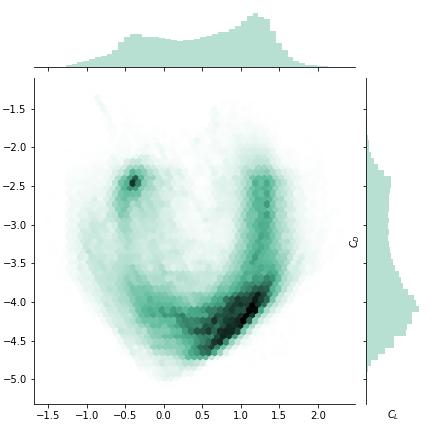
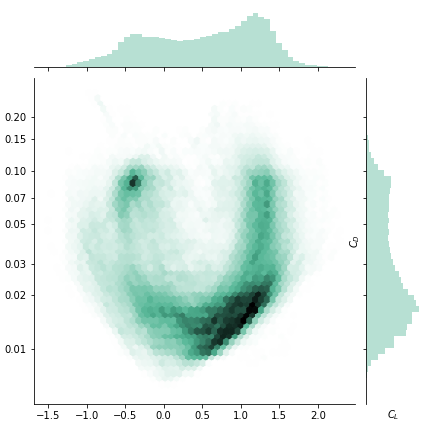
32 points, half-cosine and closed works quite nice!

diff --git a/validation.py b/validation.py
@@ -1,31 +1,47 @@
+"""
+Script to run various predictions through the trained model and validate against
+XFoil simulations.
+"""
+
+################################################################################
+# %% IMPORT PACKAGES
+################################################################################
+
 import numpy as np
-
 import matplotlib.pyplot as mp
-
 from tensorflow.keras.models import load_model, model_from_json
 from tensorflow.keras.utils import CustomObjectScope
-
 from SNConv2D import SpectralNormalization
-
 from cgan import CGAN
-
 from scipy.signal import savgol_filter
+import os
+import argparse
+
+################################################################################
+# %% TEST PARAMETERS
+################################################################################
+
+parser = argparse.ArgumentParser()
+parser.add_argument("CL", help="target lift coefficient (float ~-1.5 -- 2)")
+parser.add_argument("CD", help="target drag coefficient (float ~0.01 -- 0.2)")
+parser.add_argument("A", help="target crossectional area (float ~0.02 -- 0.2)")
+args = parser.parse_args()
+
+CL = float(args.CL)
+CD = float(args.CD)
+A = float(args.A)
+LAT_DIM = 100
+
+################################################################################
+# %% INIT CGAN MODEL TO PASS CUSTOM LAYERS TO GENERATOR MODEL
+################################################################################
 
 gan = CGAN()
-
-
-
 g_model = load_model('02-results/g_model.h5', custom_objects={'edge_padding': gan.edge_padding, 'closing': gan.closing, 'kernel_init': gan.kernel_init, 'SpectralNormalization': SpectralNormalization})
 
-# %%
-
-##### TEST PARAMETERS
-
-CL = 0.25
-CD = 0.02
-A = 0.07
-
-LAT_DIM = 100
+################################################################################
+# %% SCALE FACTORS
+################################################################################
 
 cl_mean = 0.50
 cl_std =  0.7
@@ -35,6 +51,10 @@ cd_std = 0.7
 
 a_mean = 0.085
 a_std = 0.025
+
+################################################################################
+# %% RUN THROUGH GENERATOR
+################################################################################
 
 nsamples = 5
 cl = (CL-cl_mean)/cl_std*np.ones((nsamples))
@@ -49,8 +69,9 @@ z_pred = np.random.randn(nsamples, LAT_DIM)
 X_pred = g_model.predict([y_pred, z_pred])
 
 X_smooth = X_pred.copy()
-X_smooth = savgol_filter(X_smooth, 9, 2, mode='nearest', axis=1)
+X_smooth = savgol_filter(X_smooth, 3, 2, mode='nearest', axis=1)
 
+"""
 for i in range(1):
     mp.plot(X_pred[i,:,0,0]+i*2.1,X_pred[i,:,1,0])
     mp.plot(X_smooth[i,:,0,0]+i*2.1, X_smooth[i,:,1,0], 'o-')
@@ -58,45 +79,16 @@ mp.axis('equal')
 mp.title(f'CL: {cl[0]*0.7+0.5}, CD: {np.exp(cd[0]*0.7-3.6)}')
 #mp.savefig(f'02-results/gen_{epoch:03d}.png')
 #mp.close()
+"""
+
+################################################################################
+# %% EXPORT PROFILE FOR XFOIL
+################################################################################
 
 data = X_smooth[0, :, :, 0].copy()
-
 data[:, 0] = data[:, 0]/2+0.5
 data[:, 1] = data[:, 1]/2
-
-
 np.savetxt('profile.dat', data)
 
-
-# %%
-
-import numpy as np
-import matplotlib.pyplot as mp
-import seaborn as sn
-
-X = np.load('01-prep-data/32/X_000.npy')
-data = np.load('01-prep-data/32/y_000.npy')
-
-for i in range(1, 20):
-    X = np.concatenate((X, np.load(f'01-prep-data/32/X_{i:03d}.npy')), axis=0)
-    data = np.concatenate((data, np.load(f'01-prep-data/32/y_{i:03d}.npy')), axis=0)
-
-#sn.distplot(data[:,2], bins=20)
-sn.jointplot(data[:,0], np.log(data[:,1]), kind="hex", color="#4CB391")
-#mp.title('$C_L$ vs. $C_D$ distribution')
-mp.xlabel('$C_L$')
-mp.ylabel('$C_D$')
-
-mp.savefig('cl_cd_dist.png')
-
-
-#sns.set(style="ticks")
-
-
-idxcl = np.argwhere(np.logical_and(data[:,0]>0.0, data[:,0]<1.5))
-idxcd = np.argwhere(np.logical_and(data[:,1]>0.009, data[:,1]<0.03))
-idx = np.intersect1d(idxcl, idxcd)
-
-for i in idx:
-    mp.plot(X[i, :, 0, 0], X[i, :, 1, 0],'gray')
-mp.axis('equal')
+os.system('xfoil < script.xf')
+os.system('evince plot.ps')

diff --git a/post.py b/post.py
@@ -1,0 +1,39 @@
+################################################################################
+# %% PLOTTING STUFF
+################################################################################
+
+import numpy as np
+import matplotlib.pyplot as mp
+import seaborn as sn
+
+X = np.load('01-prep-data/32/X_000.npy')
+data = np.load('01-prep-data/32/y_000.npy')
+
+for i in range(1, 20):
+    X = np.concatenate((X, np.load(f'01-prep-data/32/X_{i:03d}.npy')), axis=0)
+    data = np.concatenate((data, np.load(f'01-prep-data/32/y_{i:03d}.npy')), axis=0)
+
+#sn.distplot(data[:,2], bins=20)
+g = sn.jointplot(data[:,0], np.log(data[:,1]), kind="hex", color="#4CB391")
+ax = g.ax_joint
+ylabels = ['0.01', '0.02', '0.03', '0.05', '0.07', '0.10', '0.15', '0.20']
+yticks = [np.log(float(x)) for x in ylabels]
+ax.set_yticks(yticks)
+ax.set_yticklabels(ylabels)
+mp.xlabel('$C_L$')
+mp.ylabel('$C_D$')
+
+mp.savefig('cl_cd_dist.png')
+
+
+#sns.set(style="ticks")
+
+# %%
+
+idxcl = np.argwhere(np.logical_and(data[:,0]>0.0, data[:,0]<1.5))
+idxcd = np.argwhere(np.logical_and(data[:,1]>0.009, data[:,1]<0.03))
+idx = np.intersect1d(idxcl, idxcd)
+
+for i in idx:
+    mp.plot(X[i, :, 0, 0], X[i, :, 1, 0],'gray')
+mp.axis('equal')
